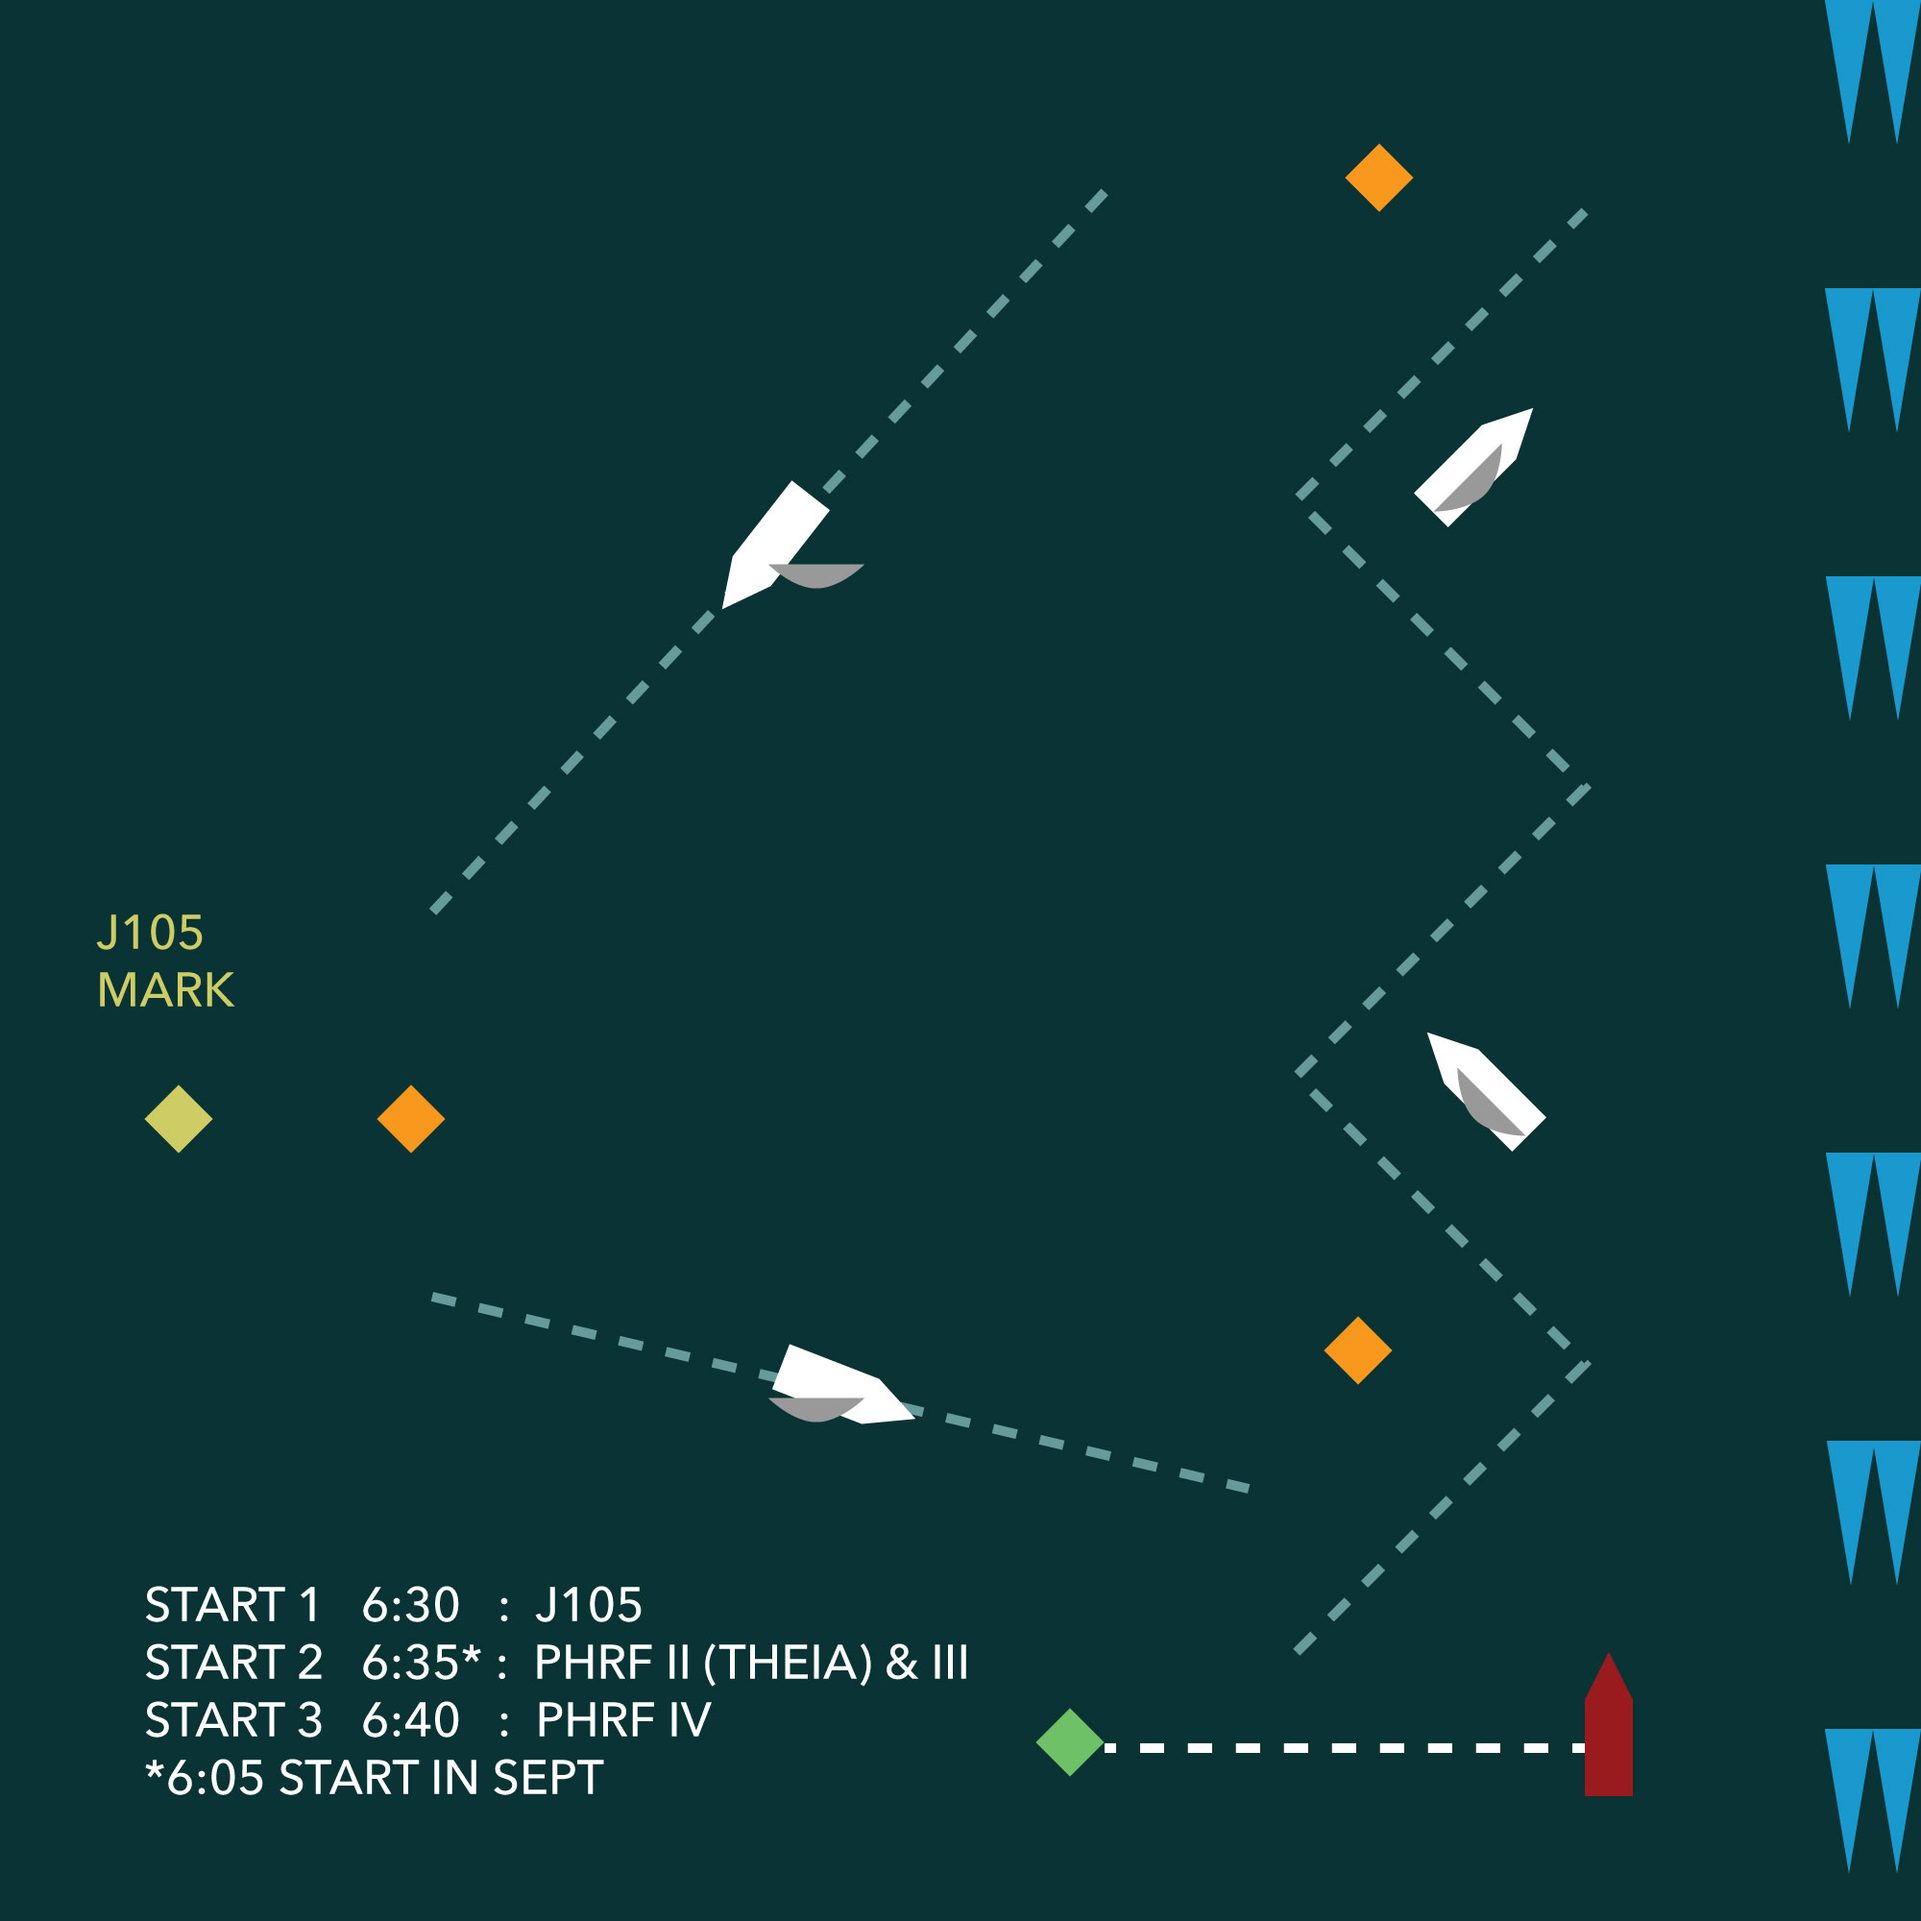
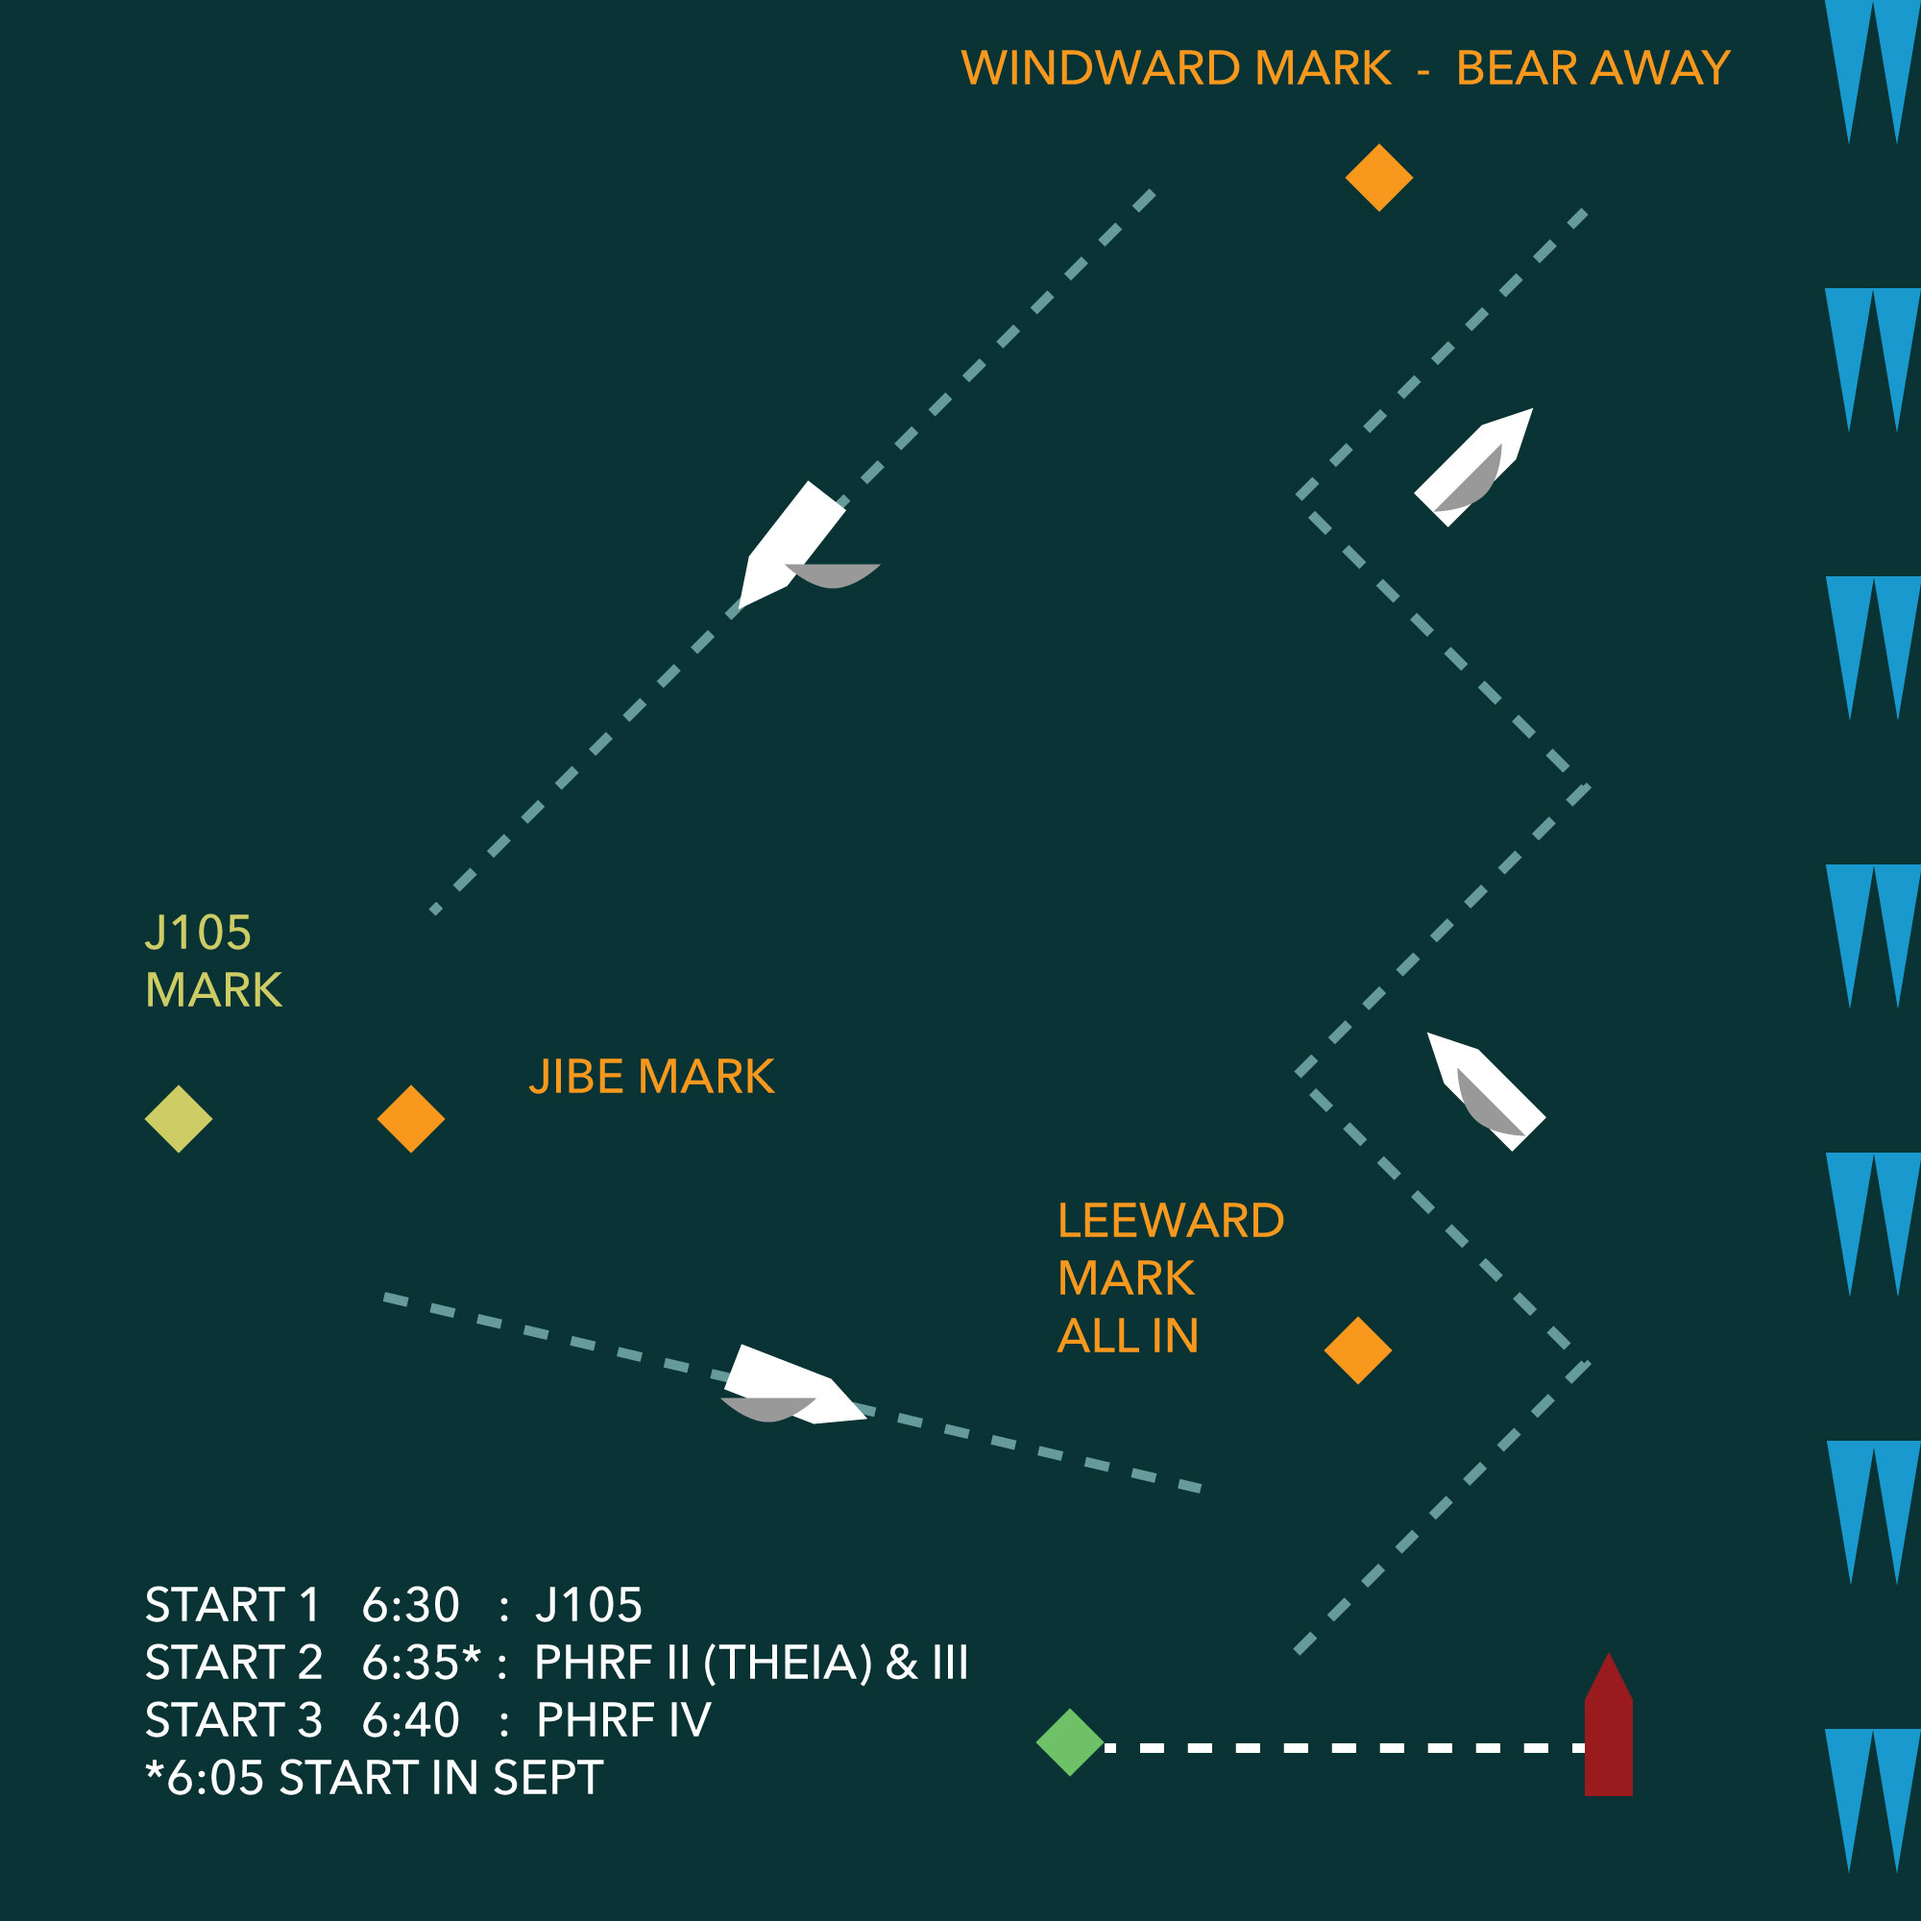
sailing rules

diff --git a/sailing-course.htm b/sailing-course.htm
@@ -39,7 +39,10 @@ then PHRF IV <br>
 </div> <!---- Zone 1 Close ----->
 
 
-<img src="images/sailing/RCYC-COURSE.jpg" width=100% alt="" border=0>
+<img src="images/sailing/race-course.jpg" width=100% alt="" border=0>
+<img src="images/sailing/race-rules.jpg" width=100% alt="" border=0>
+<img src="images/sailing/race-marks.jpg" width=100% alt="" border=0>
+<img src="images/sailing/race-start.jpg" width=100% alt="" border=0>
 
 
 <div id="zoneback"> <!---- Zoneback ----->
